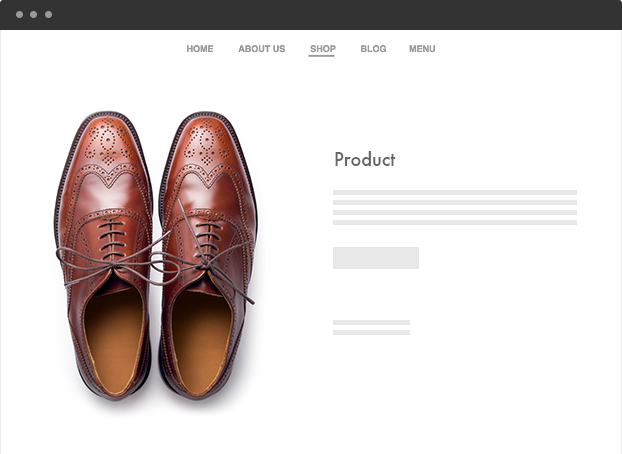
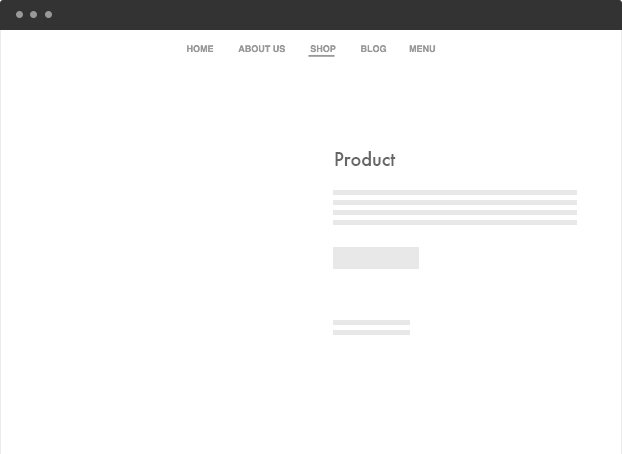
Editable ecom tab product image

Changed region(s): [[0.0611, 0.2467, 0.4277, 0.9251]]

diff --git a/less/plugin-tabs.less b/less/plugin-tabs.less
@@ -186,12 +186,37 @@ input:checked + label span span.menu:before {
   -webkit-flex: 0 1 60%;
   -ms-flex: 0 1 60%;
   flex: 0 1 60%;
+  position: relative;
+
+  img {
+    width: 100%;
+    height: auto;
+  }
+
+  .custom-image .image-link {
+    display: block;
+    position: absolute;
+    top: 0;
+    right: 0;
+    left: 0;
+    pointer-events: none;
+  }
 }
 
-.plugin-image img {
-  width: 100%;
-  height: auto;
+
+
+// Slide 1
+.content1 {
+  .custom-image img {
+      width: 48%;
+      margin: 12% 0 0 0.8%;
+      display: block;
+      max-height: 380px;
+      object-fit: contain;
+    }
 }
+
+
 
 /** COLORS **/
 
